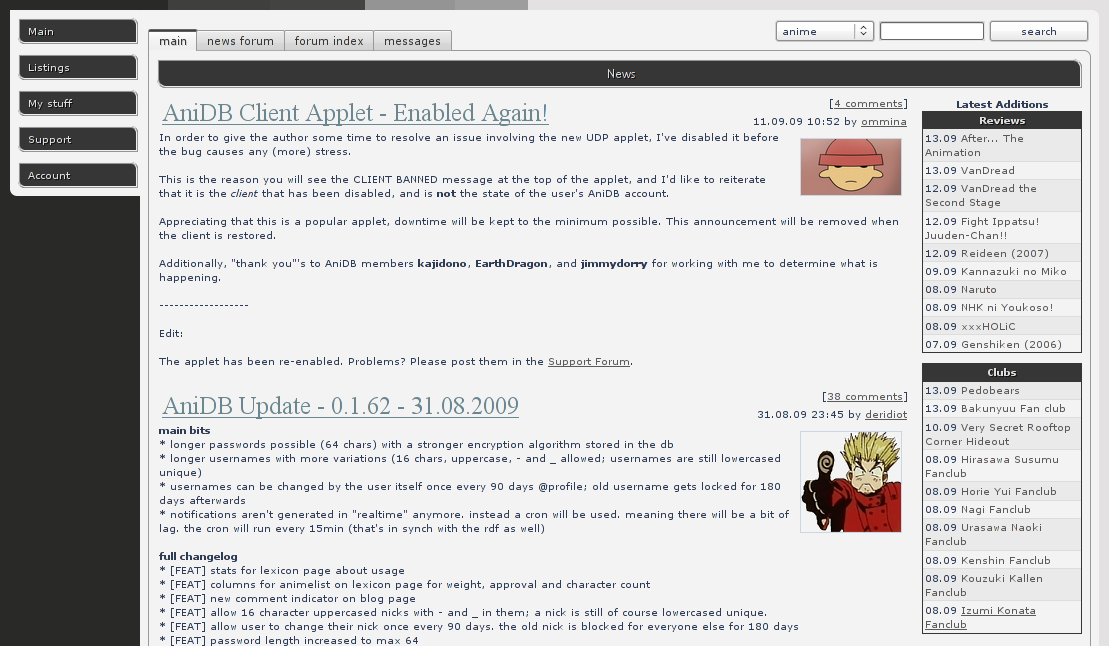
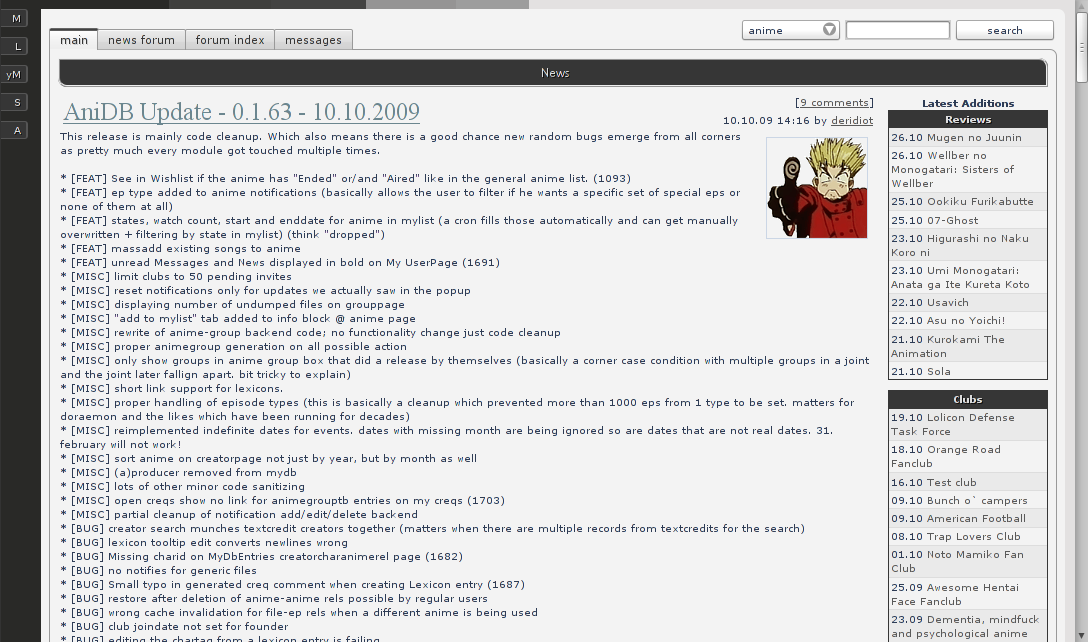
Sub-kfuaw style updated.

Changed region(s): [[0.0, 0.0, 1.0, 1.0], [0.7188, 0.5607, 0.75, 0.5919], [0.4688, 0.0, 0.5, 0.0312]]

diff --git a/sub/kfuaw/border.css b/sub/kfuaw/border.css
@@ -13,11 +13,10 @@ img, a
 	border: 1px solid #363636;
 }
 
-#layout-main table tr + tr td,
+#layout-main table tr.g_odd + tr td,
+#layout-main table tr + tr.g_odd td,
 #layout-main li.g_odd + li,
-#layout-main li + li.g_odd/*,
-#layout-main span.g_odd + span,
-#layout-main span + span.g_odd*/
+#layout-main li + li.g_odd
 {
 	border-top: 1px solid #dddddd;
 	border-bottom: none;
@@ -29,7 +28,11 @@ img, a
 }
 
 #layout-main table tr th.field,
-#layout-main table tr td.field
+#layout-main table tr td.field,
+#layout-main table tr.g_odd + tr td.field,
+#layout-main table tr + tr.g_odd td.field,
+#layout-main table tr.g_odd + tr td.field,
+#layout-main table tr + tr.g_odd td.field
 {
 	border-top: 1px solid #363636;
 }
@@ -53,9 +56,15 @@ img, a
 	border-width: 0 1px;
 }
 
-#layout-menu li ul li:first-child a
+#layout-menu li ul li:first-child a,
+#layout-menu li ul li#alert-notif a#newnotifies
 {
 	border-width: 2px 1px 0 1px;
+}
+
+#layout-menu li ul li#alert-notif a
+{
+	border-width: 0 1px 0 1px;
 }
 
 #layout-menu li ul li:last-child a

diff --git a/sub/kfuaw/forum.css b/sub/kfuaw/forum.css
@@ -110,8 +110,8 @@
 {
 	background:#b3b3b3 url(images/tab-3.png) repeat-x scroll 0 -7px;
 	margin:0 0 0.5em 0;
-	-moz-border-radius-bottomleft:.7em;
-	-webkit-border-bottom-left-radius:.7em;
+	-moz-border-radius-bottomleft:0;
+	-webkit-border-bottom-left-radius:0;
 	-moz-border-radius-topright:.4em;
 	-webkit-border-top-right-radius:.4em;
 	-moz-border-radius-topleft:.4em;
@@ -126,6 +126,8 @@
 {
 	-moz-border-radius-topleft:0em;
 	-webkit-border-top-left-radius:0em;
+	-moz-border-radius-bottomleft:.7em;
+	-webkit-border-bottom-left-radius:.7em;
 	margin:0 0 0.5em 16em;
 }
 
@@ -150,4 +152,9 @@
 #layout-main div.forum li.header dd
 {
 	margin: .2em 0;
+}
+
+#layout-main div.forum div.search form input
+{
+	vertical-align:middle;
 }

diff --git a/sub/kfuaw/color.css b/sub/kfuaw/color.css
@@ -97,7 +97,7 @@ body.nonav #layout-main div.g_content
 #layout-main h4,
 #layout-main table tr th.field,
 #layout-main table tr td.field,
-#layout-main div.creq_all dl,
+#layout-main div.creq_all dt,
 #layout-main table caption,
 #layout-main h1,
 #layout-main table thead,

diff --git a/sub/kfuaw/main.css b/sub/kfuaw/main.css
@@ -10,7 +10,7 @@
 
 #layout-menu
 {
-	position: absolute;
+	position: fixed;
 	left: 0;
 	top: 1em;
 }
@@ -54,6 +54,7 @@
 	padding: 0 1em;
 	position: relative;
 	left: 0em;
+	z-index:666;
 }
 
 #layout-menu li ul li a
